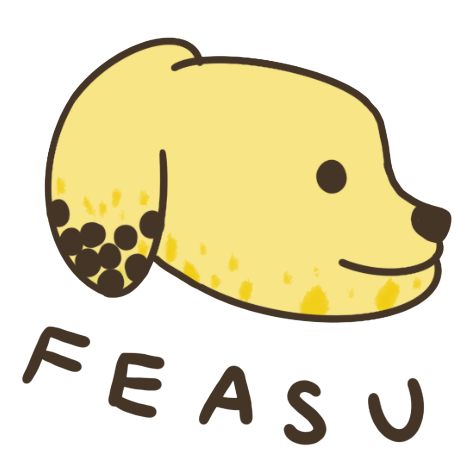
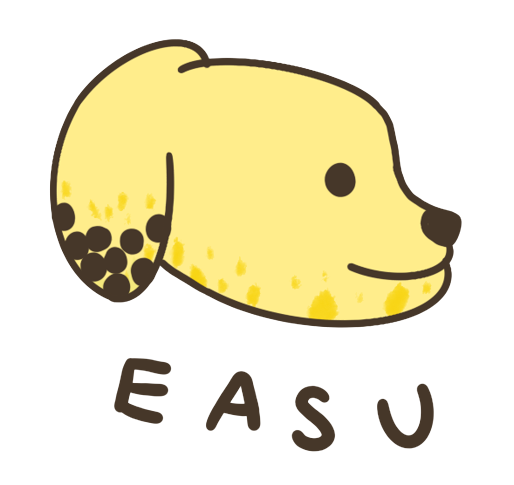
깽갱갱!!!

diff --git a/client/src/App.js b/client/src/App.js
@@ -32,19 +32,21 @@ function Welcome() {
           </div>
           <p className='des'>
             <h5 class="whoAreWe">Who are we?: </h5> We are one of the largest Asian student organizations at The Ohio State University, 
-            proudly promoting diverse cultural events and pushing the boundaries on what it means to be an east Asian at The Ohio State University. 
+            proudly promoting diverse cultural events and pushing the boundaries on what it means to be an EEast Asian at The Ohio State University. 
           </p>
           <div className='links'>
-            <button class="btn btn-secondary">
-              <img src={require('./sources/discord.png')} className='lil-logo'/>Join our Discord server!
-            </button>
+            <a href="https://web.groupme.com/join_group/91463777/ssmWCZe3" target="_blank">
+              <button class="btn btn-secondary">
+                <img src={require('./sources/discord.png')} className='lil-logo'/>Join EASU's GroupMe!
+              </button>
+            </a>
             <a href="https://www.instagram.com/feasu_osu/" target="_blank">
               <button class="btn btn-secondary">
                 <img src={require('./sources/instagram.png')} className='lil-logo'/>Follow us on Instagram!
               </button>
             </a>
 
-            <Link to="/FEASU/Events">
+            <Link to="/EASU/Events">
             <button class="btn btn-secondary">
               <img src={require('./sources/event.png')} className='lil-logo'/>
                 Check out past events!
@@ -80,7 +82,7 @@ function Event() {
 
       </div>
       <div className='links' ref={x}>
-      <Link to="/FEASU/Events">
+      <Link to="/EASU/Events">
             <button class="btn btn-secondary">
               <img src={require('./sources/event.png')} className='lil-logo'/>
                 Check out past events!
@@ -162,7 +164,7 @@ function Contact() {
           <img src={require('./sources/logo.png')}/>
         </div>
         <div className='contact3'>
-          <p><img src={require('./sources/user.png')}/>Jenny Lim</p>
+          <p><img src={require('./sources/user.png')}/>Jen Lim</p>
           <p><img src={require('./sources/email.png')}/>lim.1370@osu.edu</p>
         </div>
       </div>
@@ -179,9 +181,9 @@ function Sponsor() {
         Thank you so much for your interest in supporting EASU. We rely on your donations to pay for...
       </p>
       <ul>
-        <li>Organizing & hosting our monthly club events</li>
-        <li>Prizes for our events</li>
-        <li>Keeping this website up</li>
+        <li>- Organizing & hosting our monthly club events</li>
+        <li>- Prizes for our events</li>
+        <li>- Keeping this website up</li>
       </ul>
       <div className='links'>
             <button class="btn btn-secondary">
@@ -214,7 +216,7 @@ function Main() {
 }
 
 function Mission() {
-  var missionStatement = "The mission of East Asian Student Union (EASU) at The Ohio State University is to promote and celebrate the diverse cultural heritage of East Asia within the university community. We strive to create a safe and inclusive environment for students to explore, understand, and share their unique cultural experiences. Our organization is dedicated to pushing the boundaries of what it means to be a East Asian student at The Ohio State University through innovative and engaging events and activities. We are committed to fostering unity, cultural awareness, and leadership within the university and beyond.";
+  var missionStatement = "The mission of East Asian Student Union (EASU) at The Ohio State University is to promote and celebrate the diverse cultural heritage of East Asia within the university community. We strive to create a safe and inclusive environment for students to explore, understand, and share their unique cultural experiences. Our organization is dedicated to pushing the boundaries of what it means to be an East Asian student at The Ohio State University through innovative and engaging events and activities. We are committed to fostering unity, cultural awareness, and leadership within the university and beyond.";
   
   return (
     <>
@@ -333,11 +335,11 @@ function App() {
   return (
     <BrowserRouter>
       <Routes>
-        <Route path="/FEASU" element={<Main />} />
+        <Route path="/EASU" element={<Main />} />
         <Route path="" element={<Main />} />
         <Route path="*" element={<p>Path not resolved</p>} />
-        <Route path="/FEASU/Events" element={<Events/>}></Route>
-        <Route path="/FEASU/Gallery" element={<Gallery/>}></Route>
+        <Route path="/EASU/Events" element={<Events/>}></Route>
+        <Route path="/EASU/Gallery" element={<Gallery/>}></Route>
       </Routes> 
     </BrowserRouter>
   );

diff --git a/client/src/App.css b/client/src/App.css
@@ -41,6 +41,7 @@ p {
 
 .logo {
   height: 50px;
+
   margin-left: 0px;
   margin-right: 13px;
 }
@@ -76,7 +77,7 @@ p {
 .sipdug {
   margin-top:0px;
   margin-bottom: 10px;
-  width: 300px;
+  width: 400px;
   height: 300px;
   margin-left: auto;
   margin-right:auto;
@@ -290,7 +291,9 @@ iframe {
   margin-right: auto;
   display: block;
 }
-
+.carousel-control-prev-icon, .carousel-control-next-icon  {
+  background-color: #444450;
+}
 #carouselExampleControls {
   margin-left: auto;
   margin-right: auto;
@@ -319,20 +322,21 @@ iframe {
 }
 
 .contact2 img{
-  width: 120px;
-  height: 120px;
-  margin-top:-15px;
+  width: 130px;
+  height: 115px;
+
 
 }
 
 .contact2 {
   border-right: 0.5px solid black;
-  height: 100px;
+  height: 150px;
   width: 300px;
 }
 
 .contact3 {
   width: 300px;
+  margin-top:20px;
 }
 
 .contact3 p {
@@ -364,7 +368,9 @@ iframe {
   width: 600px;
   margin-left: auto;
   margin-right: auto;
+  
 }
+
 
 @media only screen and (max-width: 631px) {
   .sponsor p{
@@ -380,7 +386,7 @@ iframe {
   }
 
   .contact3 p {
-    font-size: 10px;
+    font-size: 12px;
   }
 
   .contact3 img {
@@ -426,7 +432,6 @@ iframe {
     margin: 0px;
     padding: 0px;
     overflow-x: hidden; 
-
 }
 
 body {

diff --git a/client/src/Navbar2.js b/client/src/Navbar2.js
@@ -5,7 +5,7 @@ import {Link, Route, Routes, BrowserRouter } from 'react-router-dom';
 export const Navbar = () => {
     return (
         <nav class="navbar navbar-expand-lg navbar-light bg-light">
-        <Link to="/FEASU">
+        <Link to="/EASU">
           <img src={require('./sources/logo.png')}  className='logo'></img>
         </Link>
         <button class="navbar-toggler" type="button" data-toggle="collapse" data-target="#navbarNav" aria-controls="navbarNav" aria-expanded="false" aria-label="Toggle navigation">
@@ -13,9 +13,9 @@ export const Navbar = () => {
         </button>
         <div class="collapse navbar-collapse" id="navbarNav">
           <ul class="navbar-nav" className="navbar-nav">
-                <Link class="nav-link" to="/FEASU">Home</Link>
-                <Link class="nav-link" to="/FEASU/Events">Events</Link>
-                <Link class="nav-link" to="/FEASU/Gallery">
+                <Link class="nav-link" to="/EASU">Home</Link>
+                <Link class="nav-link" to="/EASU/Events">Events</Link>
+                <Link class="nav-link" to="/EASU/Gallery">
                   Gallery
                 </Link>
             <li class="nav-item">

diff --git a/client/src/Navbar.js b/client/src/Navbar.js
@@ -6,7 +6,7 @@ import { Link as Link2 } from 'react-scroll';
 export const Navbar = () => {
     return (
         <nav class="navbar navbar-expand-lg navbar-dark bg-dark">
-        <Link1 to="/FEASU">
+        <Link1 to="/EASU">
           <img src={require('./sources/logo-white.png')}  className='logo'></img>
         </Link1>
         <button class="navbar-toggler" type="button" data-toggle="collapse" data-target="#navbarNav" aria-controls="navbarNav" aria-expanded="false" aria-label="Toggle navigation">
@@ -27,10 +27,10 @@ export const Navbar = () => {
                 <a class="nav-link" href="#">Sponsor</a>
               </Link2>
               
-              <Link1 class="nav-link" to="/FEASU/Events">
+              <Link1 class="nav-link" to="/EASU/Events">
                 Events
                 </Link1>
-            <Link1 class="nav-link" to="/FEASU/Gallery">
+            <Link1 class="nav-link" to="/EASU/Gallery">
               Gallery
               </Link1>
 

diff --git a/client/public/index.html b/client/public/index.html
@@ -24,7 +24,7 @@
       work correctly both with client-side routing and a non-root public URL.
       Learn how to configure a non-root public URL by running `npm run build`.
     -->
-    <title>FEASU @ Ohio State</title>
+    <title>EASU @ Ohio State</title>
     <link href="https://cdn.jsdelivr.net/npm/bootstrap@5.2.3/dist/css/bootstrap.min.css" rel="stylesheet" integrity="sha384-rbsA2VBKQhggwzxH7pPCaAqO46MgnOM80zW1RWuH61DGLwZJEdK2Kadq2F9CUG65" crossorigin="anonymous">
   </head>
   <body>
